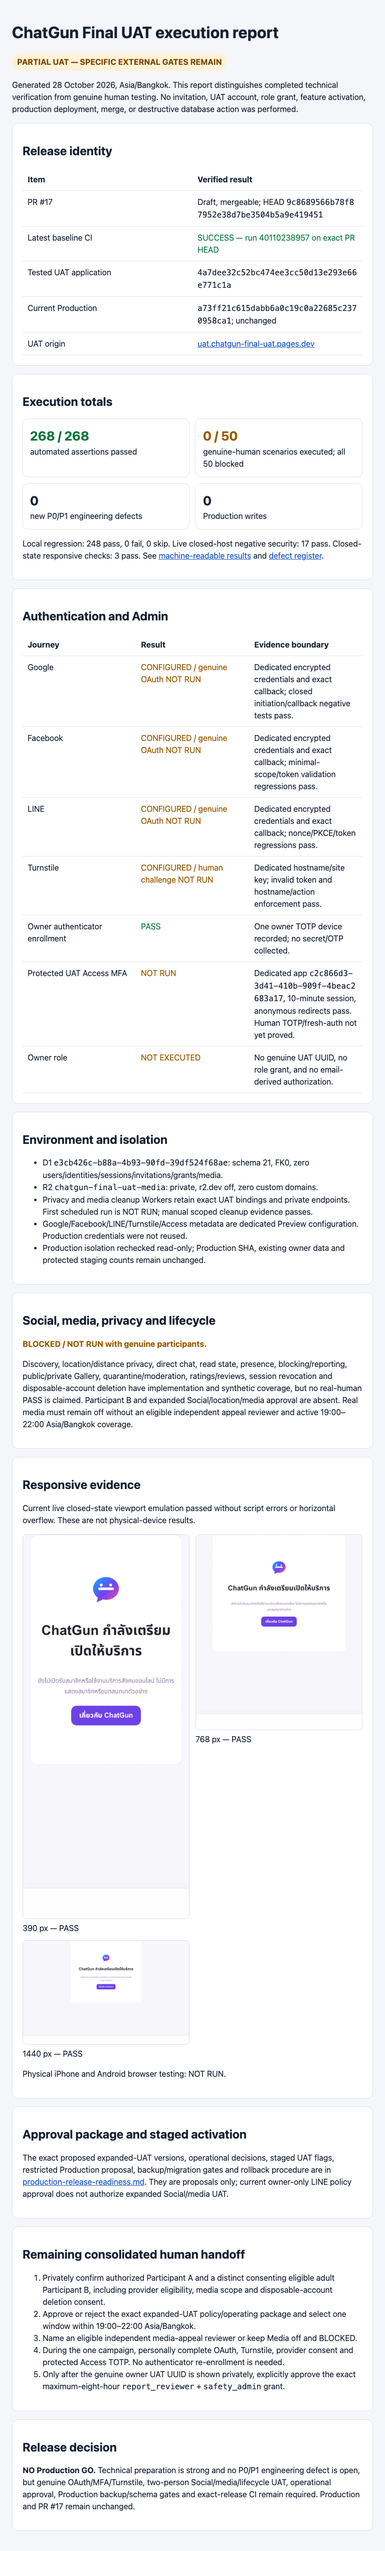
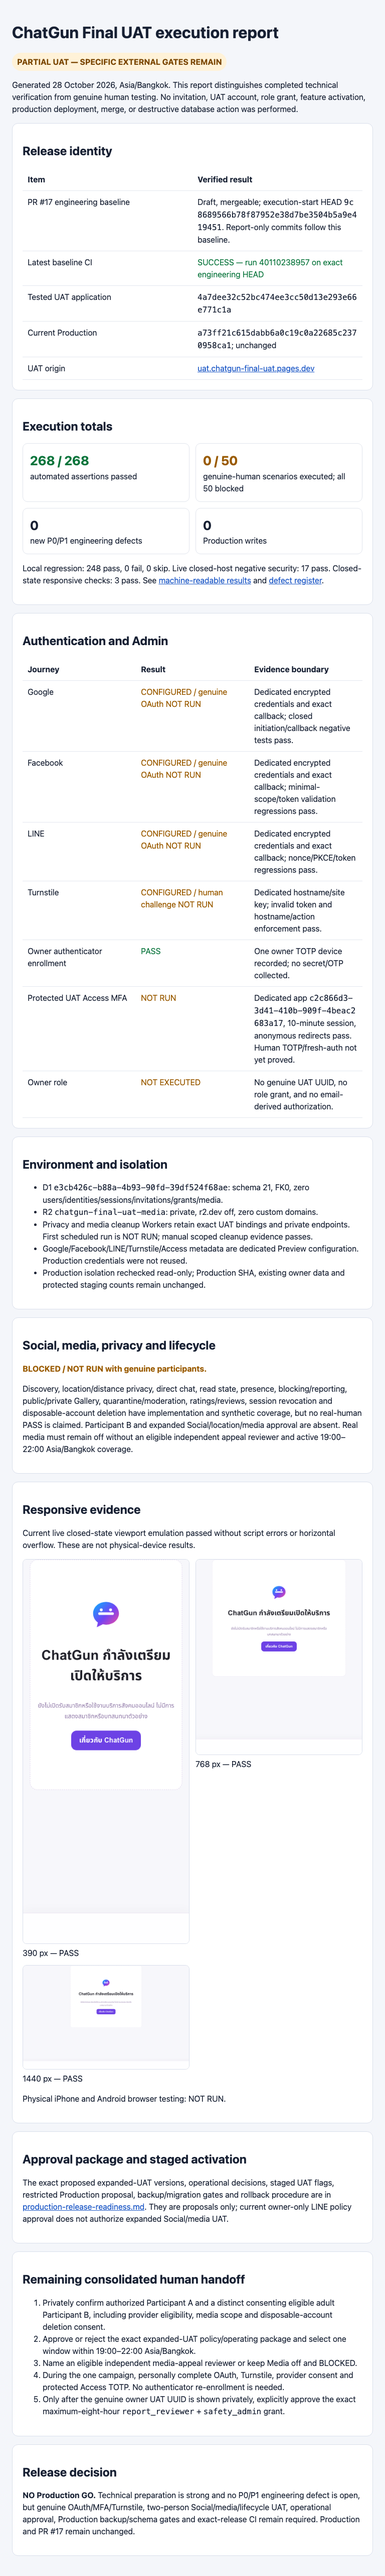
Clarify UAT execution baseline

diff --git a/docs/final-uat/execution-report.html b/docs/final-uat/execution-report.html
@@ -7,7 +7,7 @@
 <p><span class="pill">PARTIAL UAT — SPECIFIC EXTERNAL GATES REMAIN</span></p>
 <p>Generated 28 October 2026, Asia/Bangkok. This report distinguishes completed technical verification from genuine human testing. No invitation, UAT account, role grant, feature activation, production deployment, merge, or destructive database action was performed.</p>
 
-<section class="card"><h2>Release identity</h2><table><tr><th>Item</th><th>Verified result</th></tr><tr><td>PR #17</td><td>Draft, mergeable; HEAD <code>9c8689566b78f87952e38d7be3504b5a9e419451</code></td></tr><tr><td>Latest baseline CI</td><td class="pass">SUCCESS — run 40110238957 on exact PR HEAD</td></tr><tr><td>Tested UAT application</td><td><code>4a7dee32c52bc474ee3cc50d13e293e66e771c1a</code></td></tr><tr><td>Current Production</td><td><code>a73ff21c615dabb6a0c19c0a22685c2370958ca1</code>; unchanged</td></tr><tr><td>UAT origin</td><td><a href="https://uat.chatgun-final-uat.pages.dev">uat.chatgun-final-uat.pages.dev</a></td></tr></table></section>
+<section class="card"><h2>Release identity</h2><table><tr><th>Item</th><th>Verified result</th></tr><tr><td>PR #17 engineering baseline</td><td>Draft, mergeable; execution-start HEAD <code>9c8689566b78f87952e38d7be3504b5a9e419451</code>. Report-only commits follow this baseline.</td></tr><tr><td>Latest baseline CI</td><td class="pass">SUCCESS — run 40110238957 on exact engineering HEAD</td></tr><tr><td>Tested UAT application</td><td><code>4a7dee32c52bc474ee3cc50d13e293e66e771c1a</code></td></tr><tr><td>Current Production</td><td><code>a73ff21c615dabb6a0c19c0a22685c2370958ca1</code>; unchanged</td></tr><tr><td>UAT origin</td><td><a href="https://uat.chatgun-final-uat.pages.dev">uat.chatgun-final-uat.pages.dev</a></td></tr></table></section>
 
 <section class="card"><h2>Execution totals</h2><div class="grid"><div class="metric"><strong class="pass">268 / 268</strong>automated assertions passed</div><div class="metric"><strong class="blocked">0 / 50</strong>genuine-human scenarios executed; all 50 blocked</div><div class="metric"><strong>0</strong>new P0/P1 engineering defects</div><div class="metric"><strong>0</strong>Production writes</div></div><p>Local regression: 248 pass, 0 fail, 0 skip. Live closed-host negative security: 17 pass. Closed-state responsive checks: 3 pass. See <a href="e2e-results.json">machine-readable results</a> and <a href="defect-register.md">defect register</a>.</p></section>
 

diff --git a/docs/final-uat/production-release-readiness.md b/docs/final-uat/production-release-readiness.md
@@ -8,8 +8,8 @@ Production deployment is **not authorized**. Draft PR #17 must not be merged aut
 
 | Item | Result |
 |---|---|
-| PR #17 HEAD | `9c8689566b78f87952e38d7be3504b5a9e419451` (Draft, mergeable) |
-| Latest GitHub CI at baseline | SUCCESS, run `40110238957`, exact PR HEAD |
+| PR #17 engineering HEAD at execution start | `9c8689566b78f87952e38d7be3504b5a9e419451` (Draft, mergeable) |
+| Latest GitHub CI at execution start | SUCCESS, run `40110238957`, exact engineering HEAD |
 | Frozen/tested UAT application | `4a7dee32c52bc474ee3cc50d13e293e66e771c1a` |
 | Current Production | `a73ff21c615dabb6a0c19c0a22685c2370958ca1` |
 | Local regression | 248 pass, 0 fail, 0 skip |
